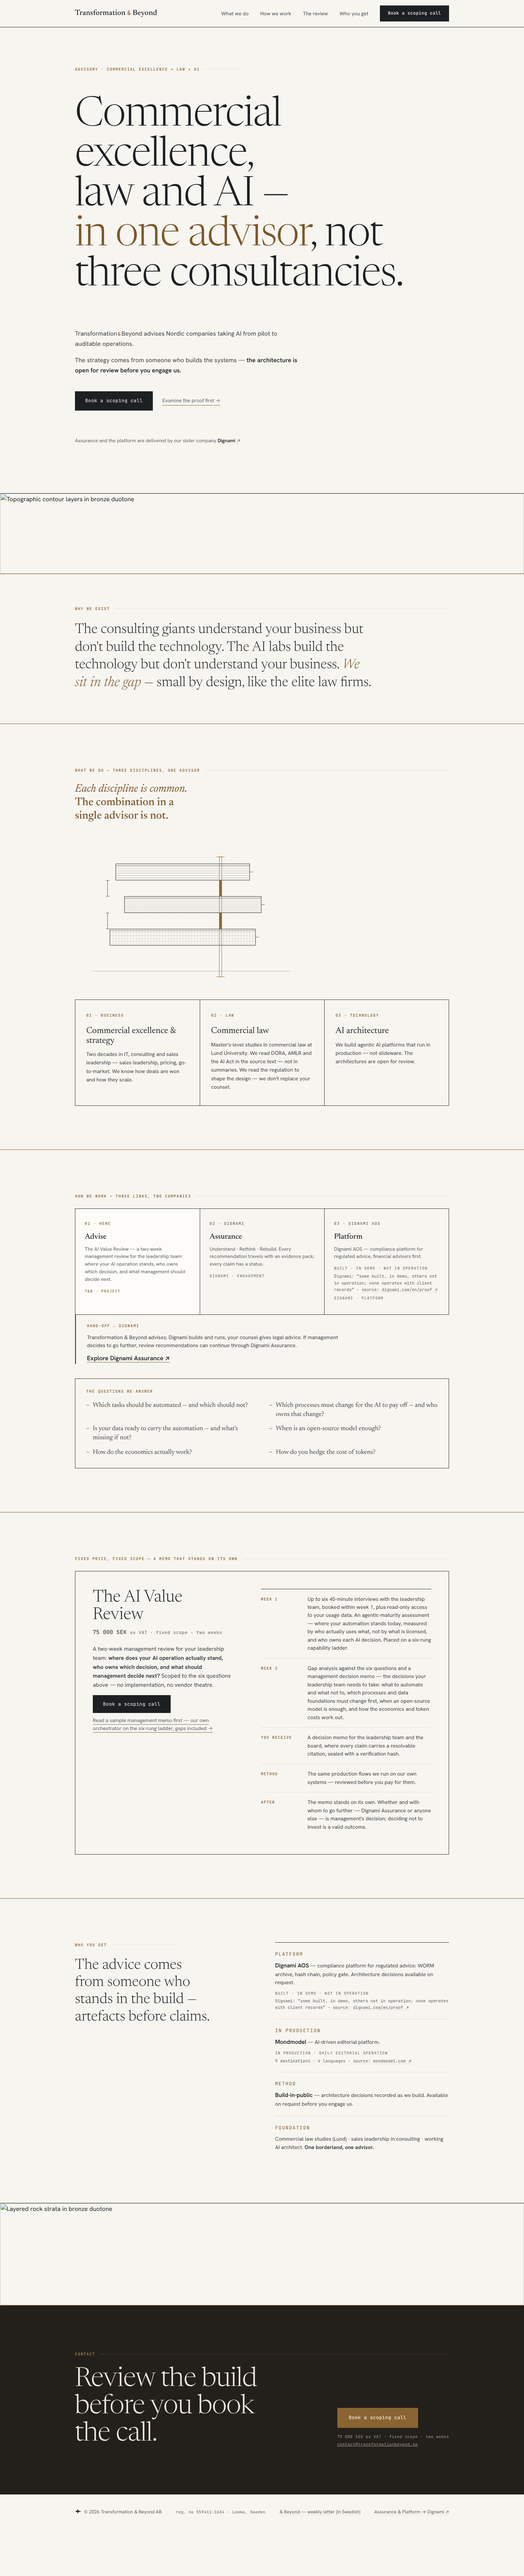
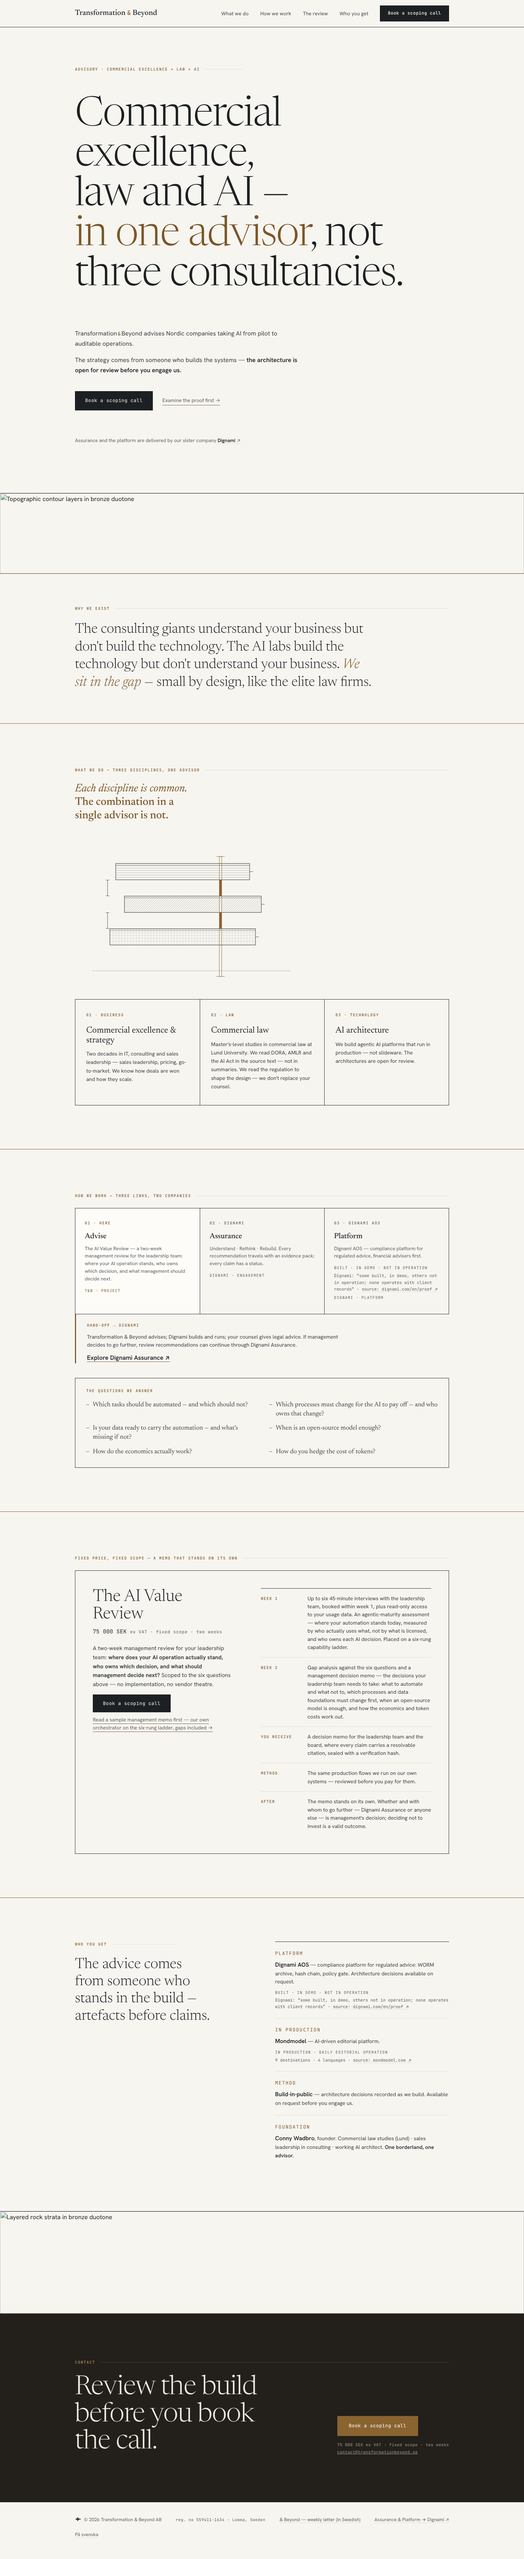
016: sidecar alt text gets the endraw check (Codex round 4 M1), future-dated letters publish on merge
Claude-Session: https://claude.ai/code/session_012XRmkQKwrcLqsRGSoZFwo6

diff --git a/bin/import-beyond.py b/bin/import-beyond.py
@@ -153,6 +153,9 @@ def main():
         alt_file = f.with_suffix(".alt.txt")
         long_alt = alt_file.read_text(encoding="utf-8").strip() if alt_file.is_file() else alt
         problems += forbidden(long_alt, f"alt-texten för {f.name}")
+        # The sidecar text is put inside the raw block too, so it gets the same check.
+        if ENDRAW.search(long_alt):
+            problems.append(f"alt-texten för {f.name} innehåller '{{% endraw %}}', som inte kan publiceras ordagrant")
         long_alt = " ".join(long_alt.replace("[", "(").replace("]", ")").split())
         images.append((alt, path, f, long_alt))
 

diff --git a/.team/reviews/016-and-beyond-archive.response.md b/.team/reviews/016-and-beyond-archive.response.md
@@ -24,3 +24,12 @@ Process note: no separate plan attack ran before the build (story and plan ride 
 - N2 (root-relative paths in the feed): fixed in 2bf71d4, `xml:base="{{ site.url }}/"` on `<feed>` (renders `https://transformationbeyond.se/`).
 - N3 (`insikter/` also matches `ai-insikter/`): kept as is. It refuses, the safe direction, and a published letter has no reason to name the repo path; Conny sees the reason in the refusal line.
 - Test before commit on the new head: `python3 -m html.parser index.html` ok; Jekyll build of the branch: `_site` holds only `index.html` (byte-identical), `beyond/index.html`, `beyond/feed.xml` (well-formed) and `CNAME`; built pages pass `html.parser`. `index.html`, the layouts and the CSS are unchanged since the screenshots in `docs/screenshots/016-and-beyond-archive/`, so they still show the head.
+
+## Codex round 4 — 2026-11-15 (on d3d7c2b)
+- M1 / P2 (image sidecar text skips the `{% endraw %}` check, so an accepted letter could still close the raw block and break the build): valid, fixed in the commit after f39ae0b. Each `.alt.txt` goes through the same `ENDRAW` check as the body before anything is written (`bin/import-beyond.py`, image loop). Fixtures (scratch, github-pages 232): sidecar `{%- endraw -%} {% include missing-file.html %}` → exit 1 "alt-texten för chart.png innehåller '{% endraw %}' …"; sidecar `Ett diagram med {{ x }} i texten` → exit 0, `jekyll build` without warnings, the letter page shows `alt="Ett diagram med {{ x }} i texten"` verbatim; body with `{% endraw %}` → exit 1 as before.
+
+## Master merged in again — 2026-11-17
+- f39ae0b merges master at 27805b1 (#37–#46: agent-team v0.8.7, pr-check, strict ruleset, the SEO pages `robots.txt`, `sitemap.xml`, `/sv/`). One conflict, `.team/ORDER.md`: both rows kept (016 and master's 019, 020). `index.html` merged cleanly; the only change from this PR is still the one footer link.
+- Found while testing the fixture above: a letter dated after the build day (imported on its Monday's eve, `publiceras:` a future date) was listed in `/beyond/` and the feed, but Jekyll did not write its page (404 until the next push, since Pages only builds on push). Fixed in `_config.yml` with `future: true`: a letter is imported only once it is `publicerad`, so it goes live on merge. Same fixture dated 2026-11-23 → `/beyond/2026-v48/` written, listed and in the feed.
+- Test before commit on the new head: `pr-check` (`check_html.py` over every `*.html` outside `.claude/`) exit 0; `python3 -m html.parser` ok on `index.html`, `sv/index.html`, `beyond/index.html`; `jekyll build` (github-pages 232) of the branch: `_site` = `CNAME`, `index.html` (byte-identical), `robots.txt`, `sitemap.xml`, `sv/index.html` (source minus its front matter, as on master), `assets/`, `beyond/index.html`, `beyond/feed.xml` (Atom, `xml:base` https://transformationbeyond.se/), no team files. Playwright 1440×900 and 390×844, scrolled: home and archive retaken in `docs/screenshots/016-and-beyond-archive/` (home now shows master's footer and language link); `scrollWidth === innerWidth` on both. Links: every local link 200 (`/`, `/sv/`, `/beyond/`, `/beyond/feed.xml`, CSS, favicon), Google Fonts CSS 200. **Not checked** (the session's network does not resolve them, none changed here): transformationbeyond.se, dignami.com, cal.com, mondmodel.com, the R2 PDF.
+- Not in this story, for the PO: `sitemap.xml` (from master) does not list `/beyond/`, and `/sv/` has no footer link to the Swedish letter. Both are one-line follow-ups.

diff --git a/.team/PAPERCUTS.md b/.team/PAPERCUTS.md
@@ -13,3 +13,4 @@ Format: `YYYY-MM-DD | role | what failed | workaround | status`, where status is
 <!-- The routine appends one line per week: YYYY-Www | Codex fixed <n> | Judge fixed <n> | failed @codex tasks <n> | escalations <n> | papercuts open <n> | cards <n> | human wait <h> h
      `cards` and `human wait` come from the card log on the PRs (CLOUD.md § Human approval 1); `human wait` is the hours inside that week of cards on Judge-approved PRs. -->
 2026-W46 | Codex fixed 1 | Judge fixed 3 | failed @codex tasks 5 | escalations 0 | papercuts open 0 | cards 2 | human wait ≥0.1 h (#34: kortloggen saknar kortets starttid)
+2026-11-17 | builder | `gh pr view` fails (GraphQL 403 in cloud sessions) | REST `gh api repos/…/pulls/25` | open
